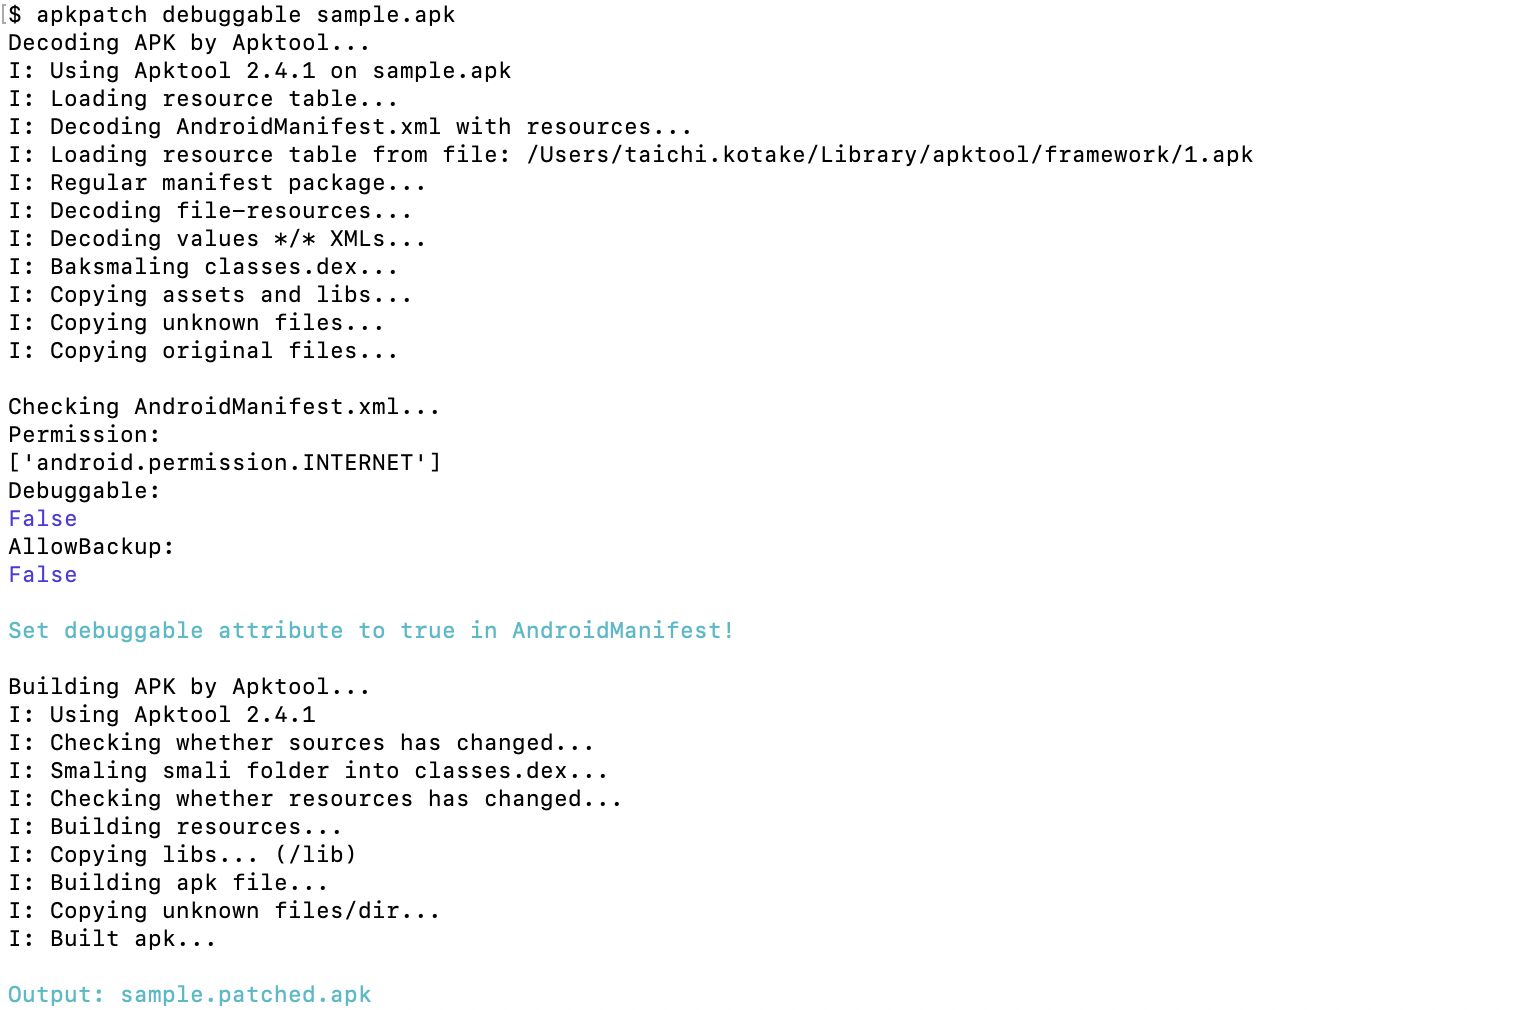
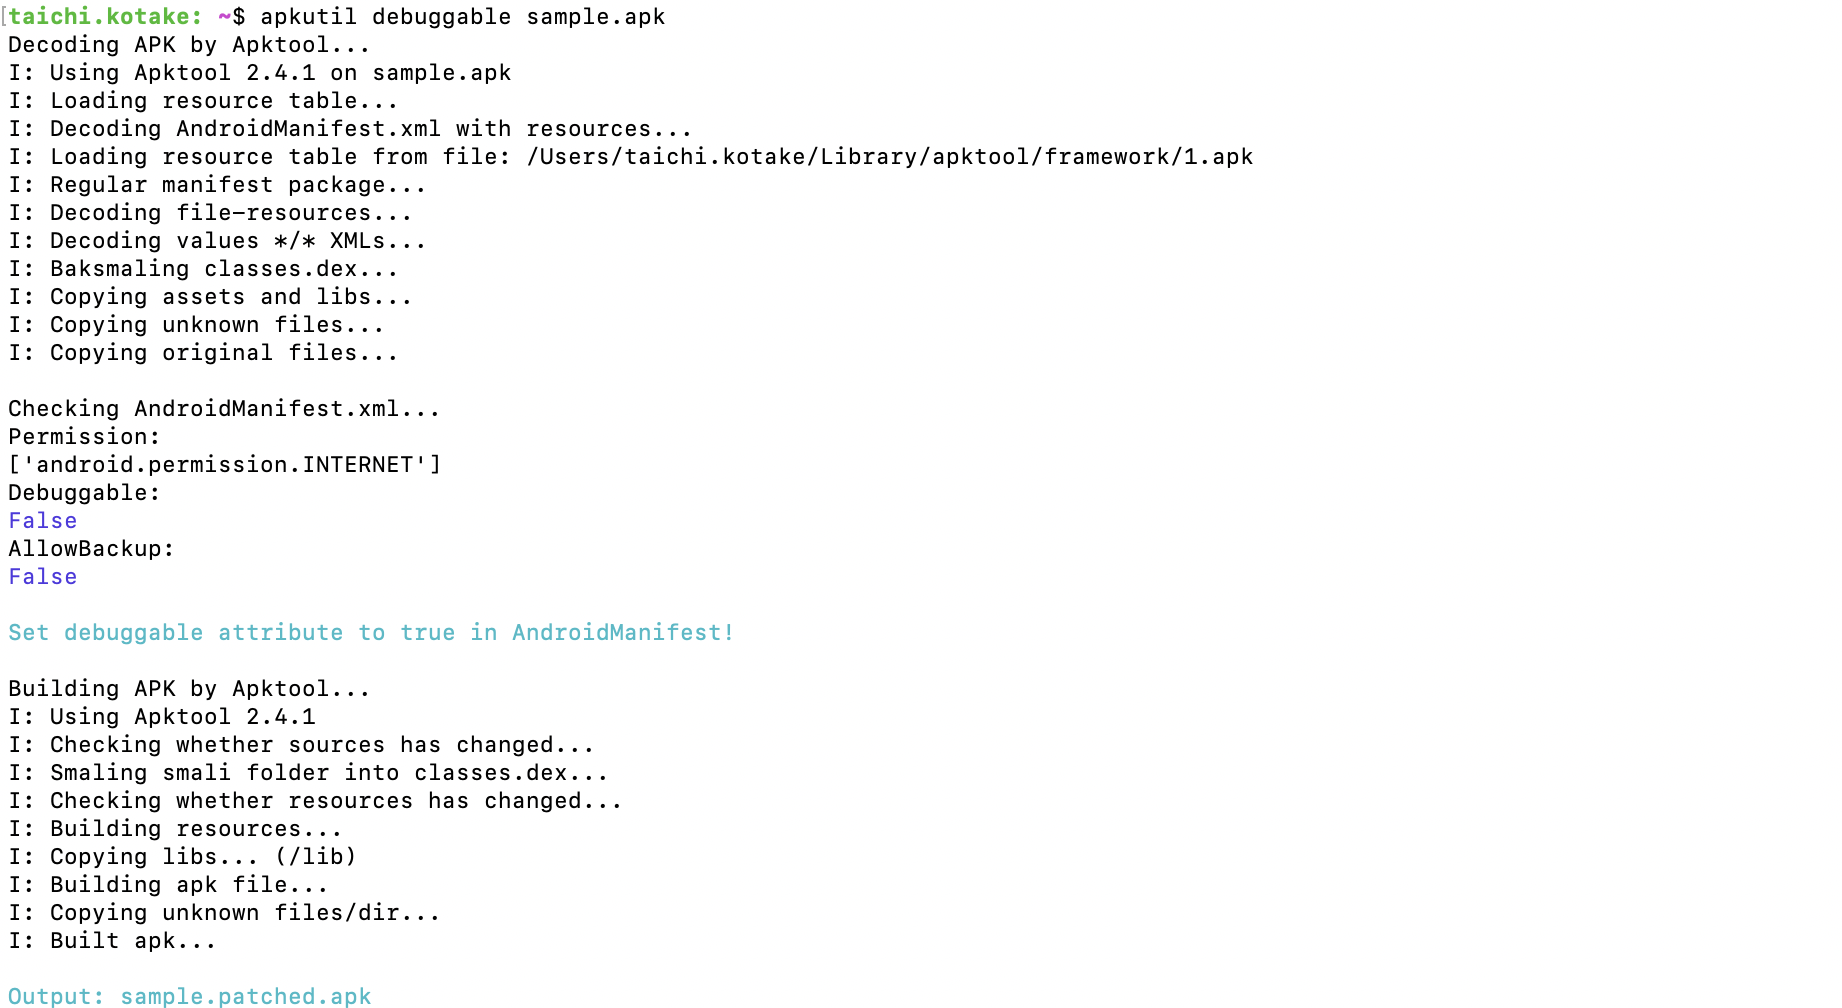
add desc, rename apkpatch to apkutil

diff --git a/apkutil/cli.py b/apkutil/cli.py
@@ -6,12 +6,12 @@ import colorama
 from colorama import Fore, Back, Style
 
 from . import manifestutil
-from . import apkutil
+from . import util
 
 
 def cmd_todebuggable(args):
     print('Decoding APK by Apktool...')
-    apkutil.decode(args.apk_path)
+    util.decode(args.apk_path)
 
     print('Checking AndroidManifest.xml...')
     manifest = manifestutil.ManifestUtil(args.apk_path.replace('.apk', '') + '/AndroidManifest.xml')
@@ -26,12 +26,12 @@ def cmd_todebuggable(args):
     apk_path = args.output
     if args.output is None:
         apk_path = dir_name + ".patched.apk"
-    apkutil.build(dir_name, apk_path)
+    util.build(dir_name, apk_path)
     print(Fore.CYAN + 'Output: ' + apk_path)
 
 def cmd_decode(args):
     print('Decoding APK by Apktool...')
-    apkutil.decode(args.apk_path)
+    util.decode(args.apk_path)
 
     print('Checking AndroidManifest.xml...')
     manifest = manifestutil.ManifestUtil(args.apk_path.replace('.apk', '') + '/AndroidManifest.xml')
@@ -42,20 +42,21 @@ def cmd_build(args):
     apk_path = args.output
     if args.output is None:
         apk_path = args.dir_name + ".patched.apk"
-    apkutil.build(args.dir_name, apk_path)
+    util.build(args.dir_name, apk_path)
     print(Fore.CYAN + 'Output: ' + apk_path)
 
 def cmd_sign(args):
     print('Signing APK by apksigner...')
-    apkutil.sign(args.apk_path)
+    util.sign(args.apk_path)
 
 def cmd_info(args):
     print('Getting package name by aapt...')
-    apkutil.get_packagename(args.apk_path)
+    util.get_packagename(args.apk_path)
 
 def cmd_screenshot(args):
     print('Getting a screenshot from connected device...')
-    apkutil.get_screenshot()
+    file_name = util.get_screenshot()
+    print(Fore.CYAN + 'Output: ' + file_name)
 
 def main():
     parser = argparse.ArgumentParser(description='apk patcher')

diff --git a/apkutil/util.py b/apkutil/util.py
@@ -25,7 +25,7 @@ def build(dir_name, apk_path):
 
 def sign(apk_path):
     home_dir = os.environ['HOME']
-    with open(home_dir + "/apkpatch.json") as f:
+    with open(home_dir + "/apkutil.json") as f:
         config = json.load(f)
         keystore_path = config['keystore_path'].replace('~', home_dir)
         ks_key_alias = config['ks-key-alias']
@@ -62,7 +62,8 @@ def get_screenshot():
     adb_path = glob.glob(home_dir + '/Library/Android/sdk/platform-tools/adb')[0]
     now = datetime.datetime.now()
     timestamp = now.strftime("%Y-%m-%d-%H-%M-%S")
-    screenshot_path = '/data/local/tmp/screenshot-' + timestamp + '.png'
+    screenshot_file = 'screenshot-' + timestamp + '.png'
+    screenshot_path = '/data/local/tmp/' + screenshot_file
 
     screencap_cmd = [adb_path]
     screencap_cmd.append('shell')
@@ -84,3 +85,4 @@ def get_screenshot():
     rm_cmd.append(screenshot_path)
     rm_proc = subprocess.Popen(rm_cmd, stdout=subprocess.PIPE)
     outs, errs = rm_proc.communicate()
+    return screenshot_file

diff --git a/setup.py b/setup.py
@@ -4,14 +4,14 @@
 from setuptools import setup
 
 setup(
-    name="apkpatch",
+    name="apkutil",
     version="0.0.1",
-    description="unpacking, patch, packing script",
+    description="decode, patch, build, etc",
     author="Taichi Kotake",
-    packages=['apkpatch'],
+    packages=['apkutil'],
     entry_points={
         'console_scripts':[
-            'apkpatch = apkpatch.cli:main',
+            'apkutil = apkutil.cli:main',
         ],
     },
     install_requires=[

diff --git a/README.md b/README.md
@@ -1,22 +1,123 @@
-# apkpatch
+# apkutil
 
 ## Installation
 
 ```
-$ pip install git+ssh://git@github.com/aktsk/apkpatch.git
+$ pip install git+ssh://git@github.com/aktsk/apkutil.git
 ```
 
 ## Usage
 
-## debuggable
-Decode the APK, set debuggable attribute to `true` in AndroidManifest, and rebuild it.
-
 ![debuggable](./img/debuggable.png)
 
-## decode
+### debuggable
+Decode the APK, set debuggable attribute to `true` in AndroidManifest, and rebuild it.
 
+```
+$ apkutil debuggable sample.apk
+Decoding APK by Apktool...
+I: Using Apktool 2.4.1 on sample.apk
+I: Loading resource table...
+I: Decoding AndroidManifest.xml with resources...
+I: Loading resource table from file: /Users/taichi.kotake/Library/apktool/framework/1.apk
+I: Regular manifest package...
+I: Decoding file-resources...
+I: Decoding values */* XMLs...
+I: Baksmaling classes.dex...
+I: Copying assets and libs...
+I: Copying unknown files...
+I: Copying original files...
 
-## sign
+Checking AndroidManifest.xml...
+Permission:
+['android.permission.INTERNET']
+Debuggable:
+False
+AllowBackup:
+False
 
+Set debuggable attribute to true in AndroidManifest!
 
-## build
+Building APK by Apktool...
+I: Using Apktool 2.4.1
+I: Checking whether sources has changed...
+I: Smaling smali folder into classes.dex...
+I: Checking whether resources has changed...
+I: Building resources...
+I: Copying libs... (/lib)
+I: Building apk file...
+I: Copying unknown files/dir...
+I: Built apk...
+
+Output: sample.patched.apk
+```
+
+### info
+
+```
+$ apkutil info sample.apk
+Getting package name by aapt...
+    A: package="jp.aktsk.sample" (Raw: "jp.aktsk.sample")
+```
+
+### screenshot
+
+```
+$ apkutil screenshot 
+Getting a screenshot from connected device...
+/data/local/tmp/screenshot-2020-05-21-16-58-20.png: 1 file pulled. 2.1 MB/s (14419 bytes in 0.007s)
+
+Output: screenshot-2020-05-21-16-58-20.png
+```
+
+### decode
+
+```
+$ apkutil decode sample.apk
+Decoding APK by Apktool...
+I: Using Apktool 2.4.1 on sample.apk
+I: Loading resource table...
+I: Decoding AndroidManifest.xml with resources...
+I: Loading resource table from file: /Users/taichi.kotake/Library/apktool/framework/1.apk
+I: Regular manifest package...
+I: Decoding file-resources...
+I: Decoding values */* XMLs...
+I: Baksmaling classes.dex...
+I: Copying assets and libs...
+I: Copying unknown files...
+I: Copying original files...
+
+Checking AndroidManifest.xml...
+Permission:
+['android.permission.INTERNET']
+Debuggable:
+False
+AllowBackup:
+False
+```
+
+### sign
+
+```
+$ apkutil sign sample.apk
+Signing APK by apksigner...
+Signed
+```
+
+### build
+
+```
+$ apkutil build sample
+Building APK by Apktool...
+I: Using Apktool 2.4.1
+I: Checking whether sources has changed...
+I: Smaling smali folder into classes.dex...
+I: Checking whether resources has changed...
+I: Building resources...
+I: Copying libs... (/lib)
+I: Building apk file...
+I: Copying unknown files/dir...
+I: Built apk...
+
+Output: sample.patched.apk
+```
